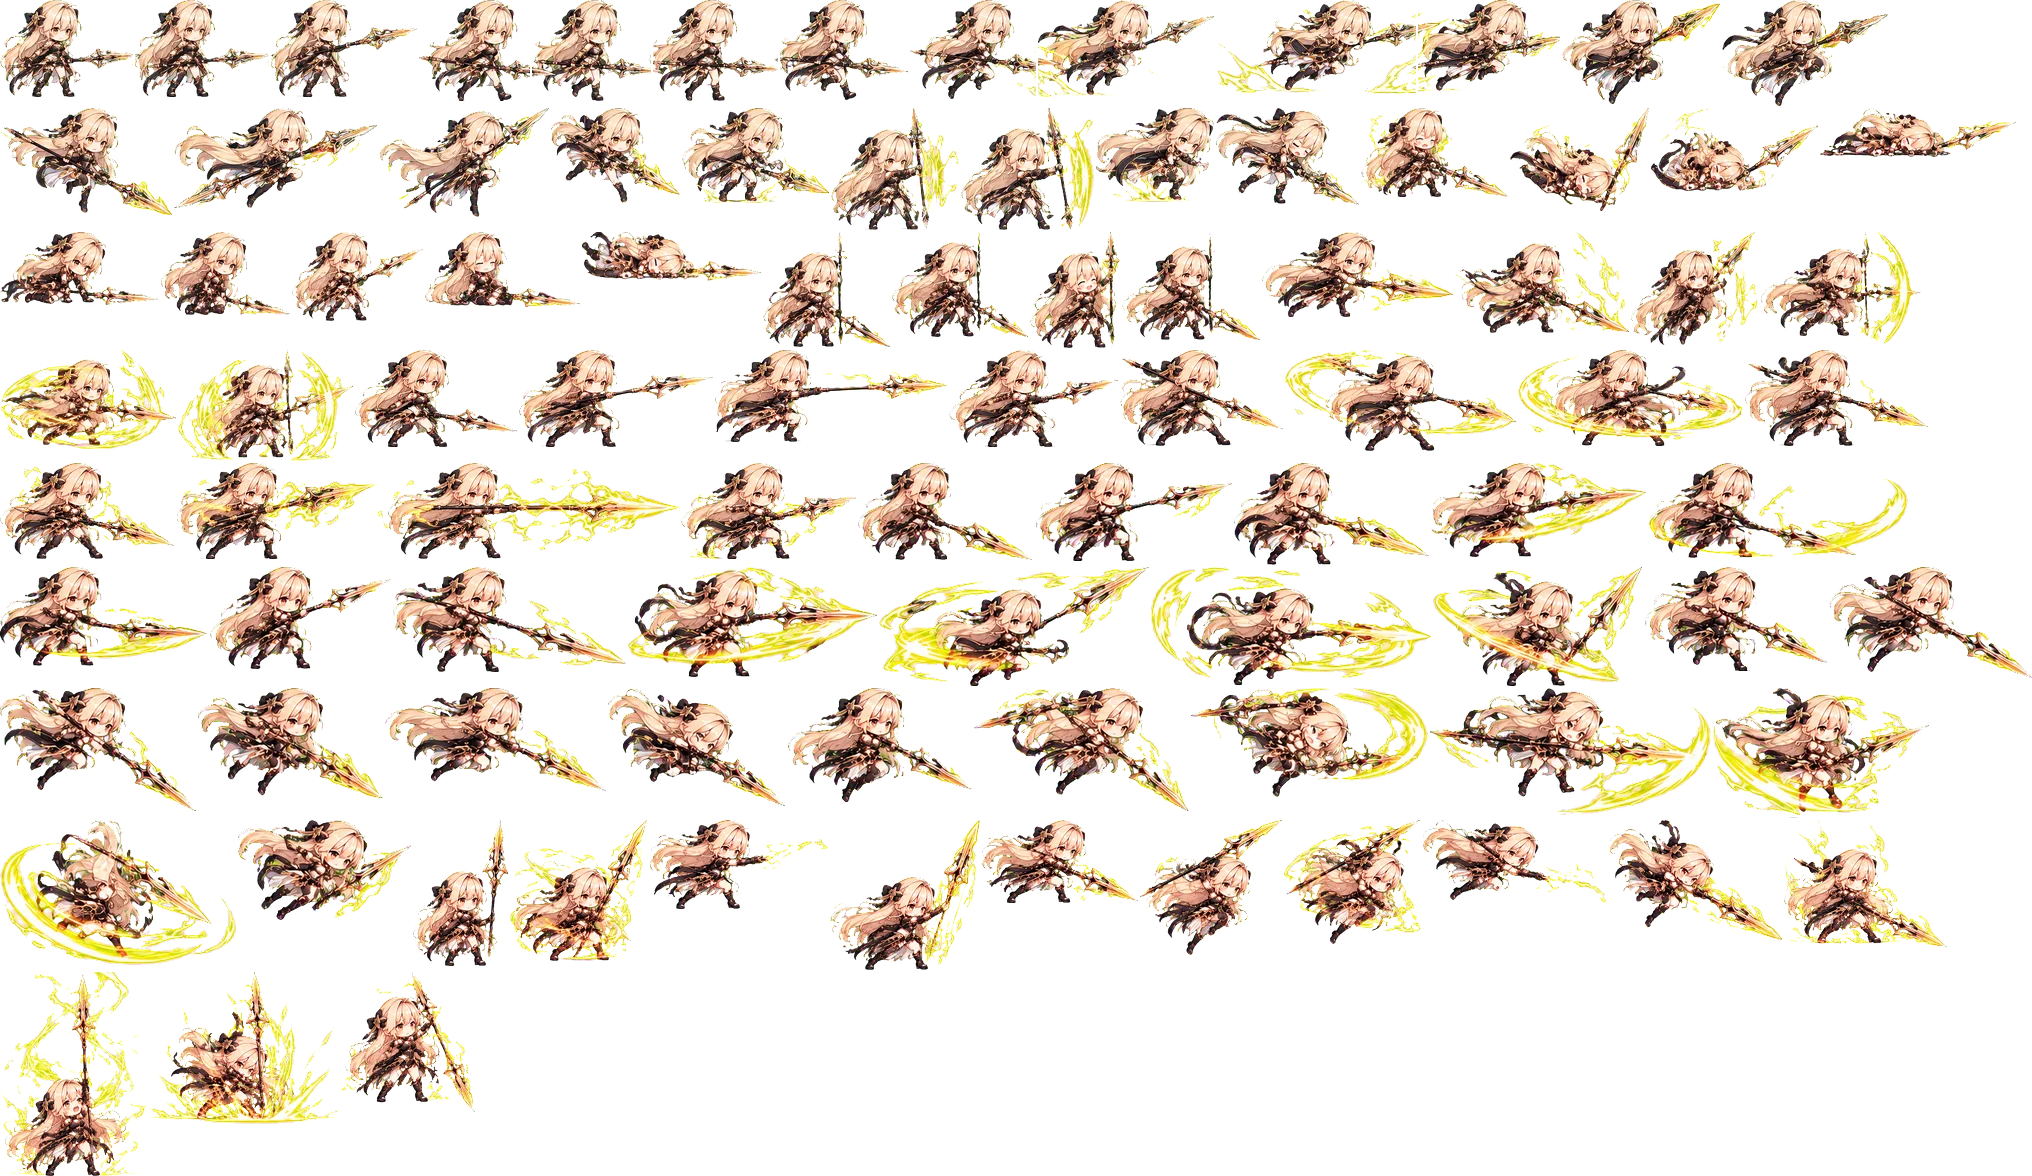
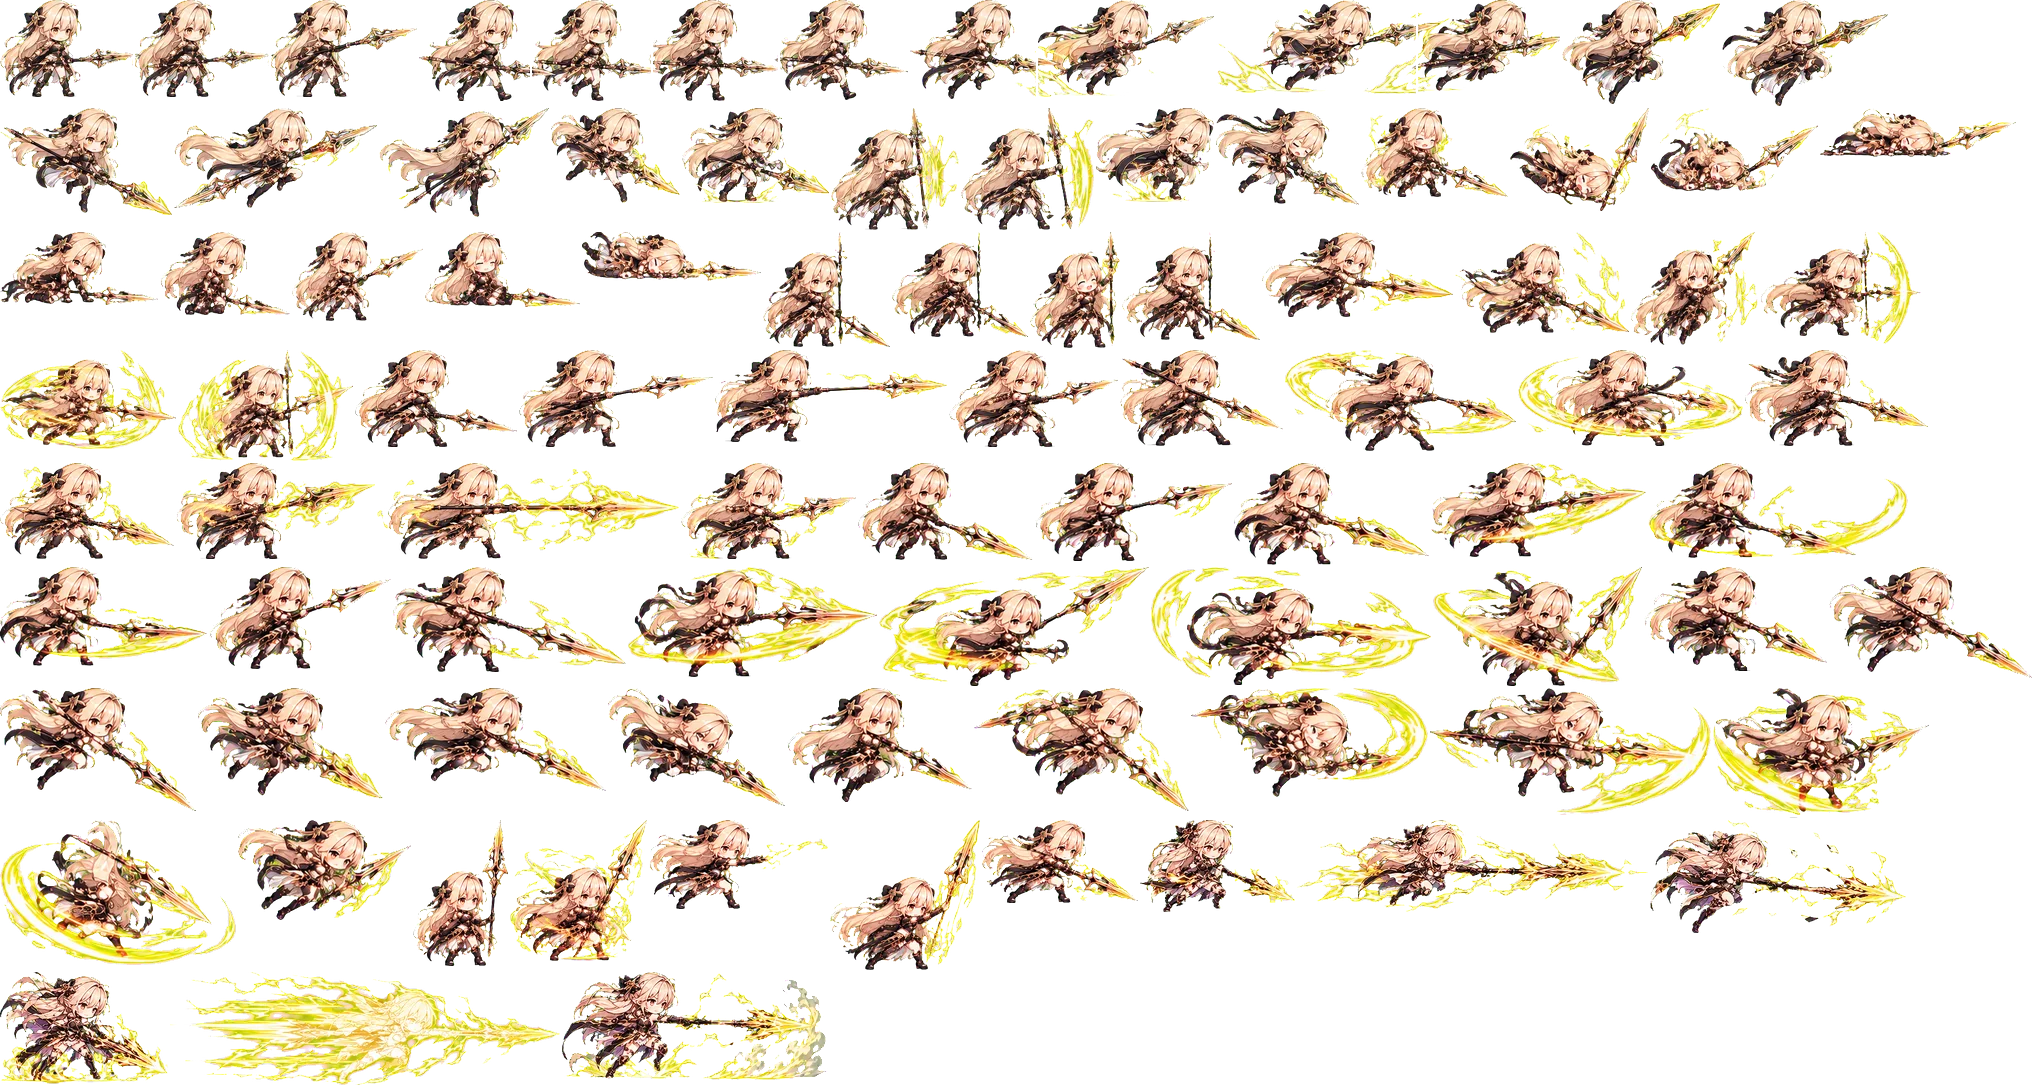
격투: 제나 v1.8 그림 — 뇌격돌·뇌섬일창 SD 프레임, 공중 L 번개 꼬리·찌릿, 일섬·낙인·낙뢰 그림, 공중 L·필살기 아이콘
Claude-Session: https://claude.ai/code/session_01Q2UB7i4vqxayb5flgw9kqa

diff --git a/web/src/components/Fight/render.ts b/web/src/components/Fight/render.ts
@@ -82,7 +82,8 @@ const FX_SETS: Record<string, Record<string, [number, number, boolean]>> = {
   igna: { spark: [4, 0.7, true], guard: [2, 0.6, true], dust: [4, 0.5, false] },
   soyoung: { spark: [4, 0.6, true], guard: [2, 0.6, true], dust: [4, 0.5, false], burst: [4, 1.0, true] },
   lily: { spark: [4, 0.6, true], guard: [2, 0.6, true], dust: [4, 0.5, false] },
-  zena: { spark: [4, 0.6, true], guard: [2, 0.6, true], dust: [4, 0.5, false] },
+  // 제나: flash(일섬 빛줄기)·mark(낙인)·strike(낙뢰)는 drawZap 이, flash 는 공중 L 뇌격돌 꼬리로도 씀
+  zena: { spark: [4, 0.6, true], guard: [2, 0.6, true], dust: [4, 0.5, false], flash: [1, 1, true], mark: [1, 1, true], strike: [1, 1, true] },
   // 건모: box(Ctrl+A 선택 박스)·win(Alt+Tab 창)·err(금요일 배포 블록)·pause(⏸)·confuse(💫 로딩 원)는 따로 그림
   gunmo: {
     spark: [4, 0.6, true],
@@ -810,6 +811,36 @@ export class FightRenderer {
         g.restore();
       }
     }
+    // 제나 공중 L 뇌격돌: 몸 뒤로 번개 꼬리 + 창끝·몸 둘레에 찌릿 (돌진하는 동안)
+    if (CHARS[f.ch].id === "zena" && f.st === "atk" && f.mv === "S" && f.aerial && cm?.air) {
+      const am = { ...cm, ...cm.air };
+      const t0 = f.t - am.startup;
+      if (t0 >= -3 && t0 < am.active + 4) {
+        const on = t0 >= 0 && t0 < am.active;
+        const im = fxImg("zena-flash-0");
+        if (im && t0 >= 0) {
+          const fade = on ? 1 : Math.max(0, 1 - (t0 - am.active) / 4);
+          const w = 120 * (on ? Math.min(1, (t0 + 2) / 4) : 1),
+            h = 30;
+          g.save();
+          g.globalCompositeOperation = "lighter";
+          g.globalAlpha = (0.55 + 0.25 * Math.random()) * fade;
+          g.translate(x + f.face * 6, y - 40);
+          if (f.face < 0) g.scale(-1, 1);
+          g.drawImage(im, -w, -h / 2, w, h);
+          g.restore();
+        }
+        if (s.f % 2 === 0)
+          for (let k = 0; k < (on ? 3 : 1); k++) {
+            const tip = Math.random() < 0.5;
+            this.parts.push({
+              x: x + f.face * (tip ? 40 + Math.random() * 20 : (Math.random() - 0.5) * 36), y: y - 40 + (Math.random() - 0.5) * (tip ? 16 : 40),
+              vx: (Math.random() - 0.5) * 3, vy: (Math.random() - 0.5) * 3, life: 8, max: 8,
+              color: Math.random() < 0.4 ? "#FFFFFF" : "#FFE45C", size: 0.9 + Math.random() * 0.5, kind: "bolt",
+            });
+          }
+      }
+    }
     // 이반 곰 포옹: 덮칠 때 손끝에 붉은 휘두름, 안고 떨어질 때 붉은 기 + 위로 속도선
     if (CHARS[f.ch].id === "ivan" && f.st === "atk" && f.mv === "S" && f.aerial && cm?.air?.hug) {
       const am = cm.air;
@@ -1290,8 +1321,22 @@ export class FightRenderer {
     const g = this.g;
     g.save();
     g.globalCompositeOperation = "lighter";
+    const flash = fxImg("zena-flash-0"),
+      strike = fxImg("zena-strike-0"),
+      mark = fxImg("zena-mark-0");
     for (const l of this.lines) {
       const a = l.life / l.max;
+      if (flash) {
+        // 그림은 오른쪽(x1 쪽)이 끝 — 일섬이 간 방향으로 뒤집음
+        const dir = l.x1 >= l.x0 ? 1 : -1;
+        const len = Math.abs(l.x1 - l.x0) + 40;
+        g.save();
+        g.globalAlpha = Math.min(1, a * 1.3);
+        g.translate(l.x0 - dir * 20, l.y);
+        g.scale(dir, 1);
+        g.drawImage(flash, 0, -(26 + 16 * a) / 2, len, 26 + 16 * a);
+        g.restore();
+      }
       const th = 2 + 10 * a;
       const grad = g.createLinearGradient(l.x0, 0, l.x1, 0);
       grad.addColorStop(0, "rgba(255,240,150,0)");
@@ -1304,6 +1349,15 @@ export class FightRenderer {
     }
     for (const b of this.bolts) {
       const a = b.life / b.max;
+      if (strike) {
+        // 낙뢰 그림: 바닥(b.y) 기준, 위로 화면 끝까지 늘림
+        const w = 110,
+          h = Math.max(140, b.y + 10);
+        g.save();
+        g.globalAlpha = Math.min(1, a * 1.5);
+        g.drawImage(strike, b.x - w / 2, b.y - h, w, h);
+        g.restore();
+      }
       g.strokeStyle = `rgba(255,250,200,${a})`;
       g.lineWidth = 2 + 4 * a;
       g.beginPath();
@@ -1322,6 +1376,17 @@ export class FightRenderer {
       if (f.zap <= 0) continue;
       const x = f.x / SUB,
         y = screenY(f.h) - 32;
+      if (mark) {
+        // 낙인 문양: 몸 위에서 천천히 돌며 깜빡, 터질 때가 가까울수록 커지고 진해짐
+        const near = 1 - f.zap / 120;
+        const z = 38 + 10 * near + 3 * Math.sin(s.f * 0.5);
+        g.save();
+        g.globalAlpha = 0.45 + 0.4 * near + 0.15 * Math.sin(s.f * 0.7);
+        g.translate(x, y);
+        g.rotate(s.f * 0.05);
+        g.drawImage(mark, -z / 2, -z / 2, z, z);
+        g.restore();
+      }
       const r = 22 + 4 * Math.sin(s.f * 0.4);
       g.strokeStyle = `rgba(200,160,255,${0.35 + 0.3 * (1 - f.zap / 120)})`;
       g.lineWidth = 1.5;

diff --git a/web/src/components/Fight/PatchNotes.tsx b/web/src/components/Fight/PatchNotes.tsx
@@ -29,6 +29,7 @@ export const PATCHES: Patch[] = [
       "릴리 — 체력 1250 → 1220, 비눗방울 재사용 대기 1.4초 → 1.6초, 갇히는 시간 0.92초 → 0.75초 (AI끼리 위쪽 등급 승률 70%대)",
       "소영 — 체력 1280 → 1250, 약 30 → 26 · 앞 판정 100 → 92px, 발차기 90 → 84 (AI끼리 중간 등급 80%대)",
       "이반 약 52 → 48 · 카이 체력 1160 → 1200",
+      "제나 그림 — 뇌격돌 · 뇌섬일창 새 동작, 뇌격돌 돌진 중 몸 뒤 번개 꼬리와 찌릿 불꽃, 일섬 빛줄기 · 낙인 문양 · 낙뢰 그림, 기술 아이콘(공중 L · 필살기), 새 효과음(돌진 · 일섬 · 낙인 · 낙뢰)",
       "필살기 컷인 — 필살기를 쓰는 순간 쓴 쪽에서 비스듬한 띠와 함께 캐릭터 · 필살기 이름이 지나가요",
       "AI — 제나 뇌격돌 · 뇌섬일창 · 이그나 화상 겹을 쓰는 법, 돌진기로 낭떠러지 밖으로 날아가지 않게(맞힐 수 있어도 떨어질 자리면 안 씀), 캐릭터별 보정 다시 맞춤",
     ],
